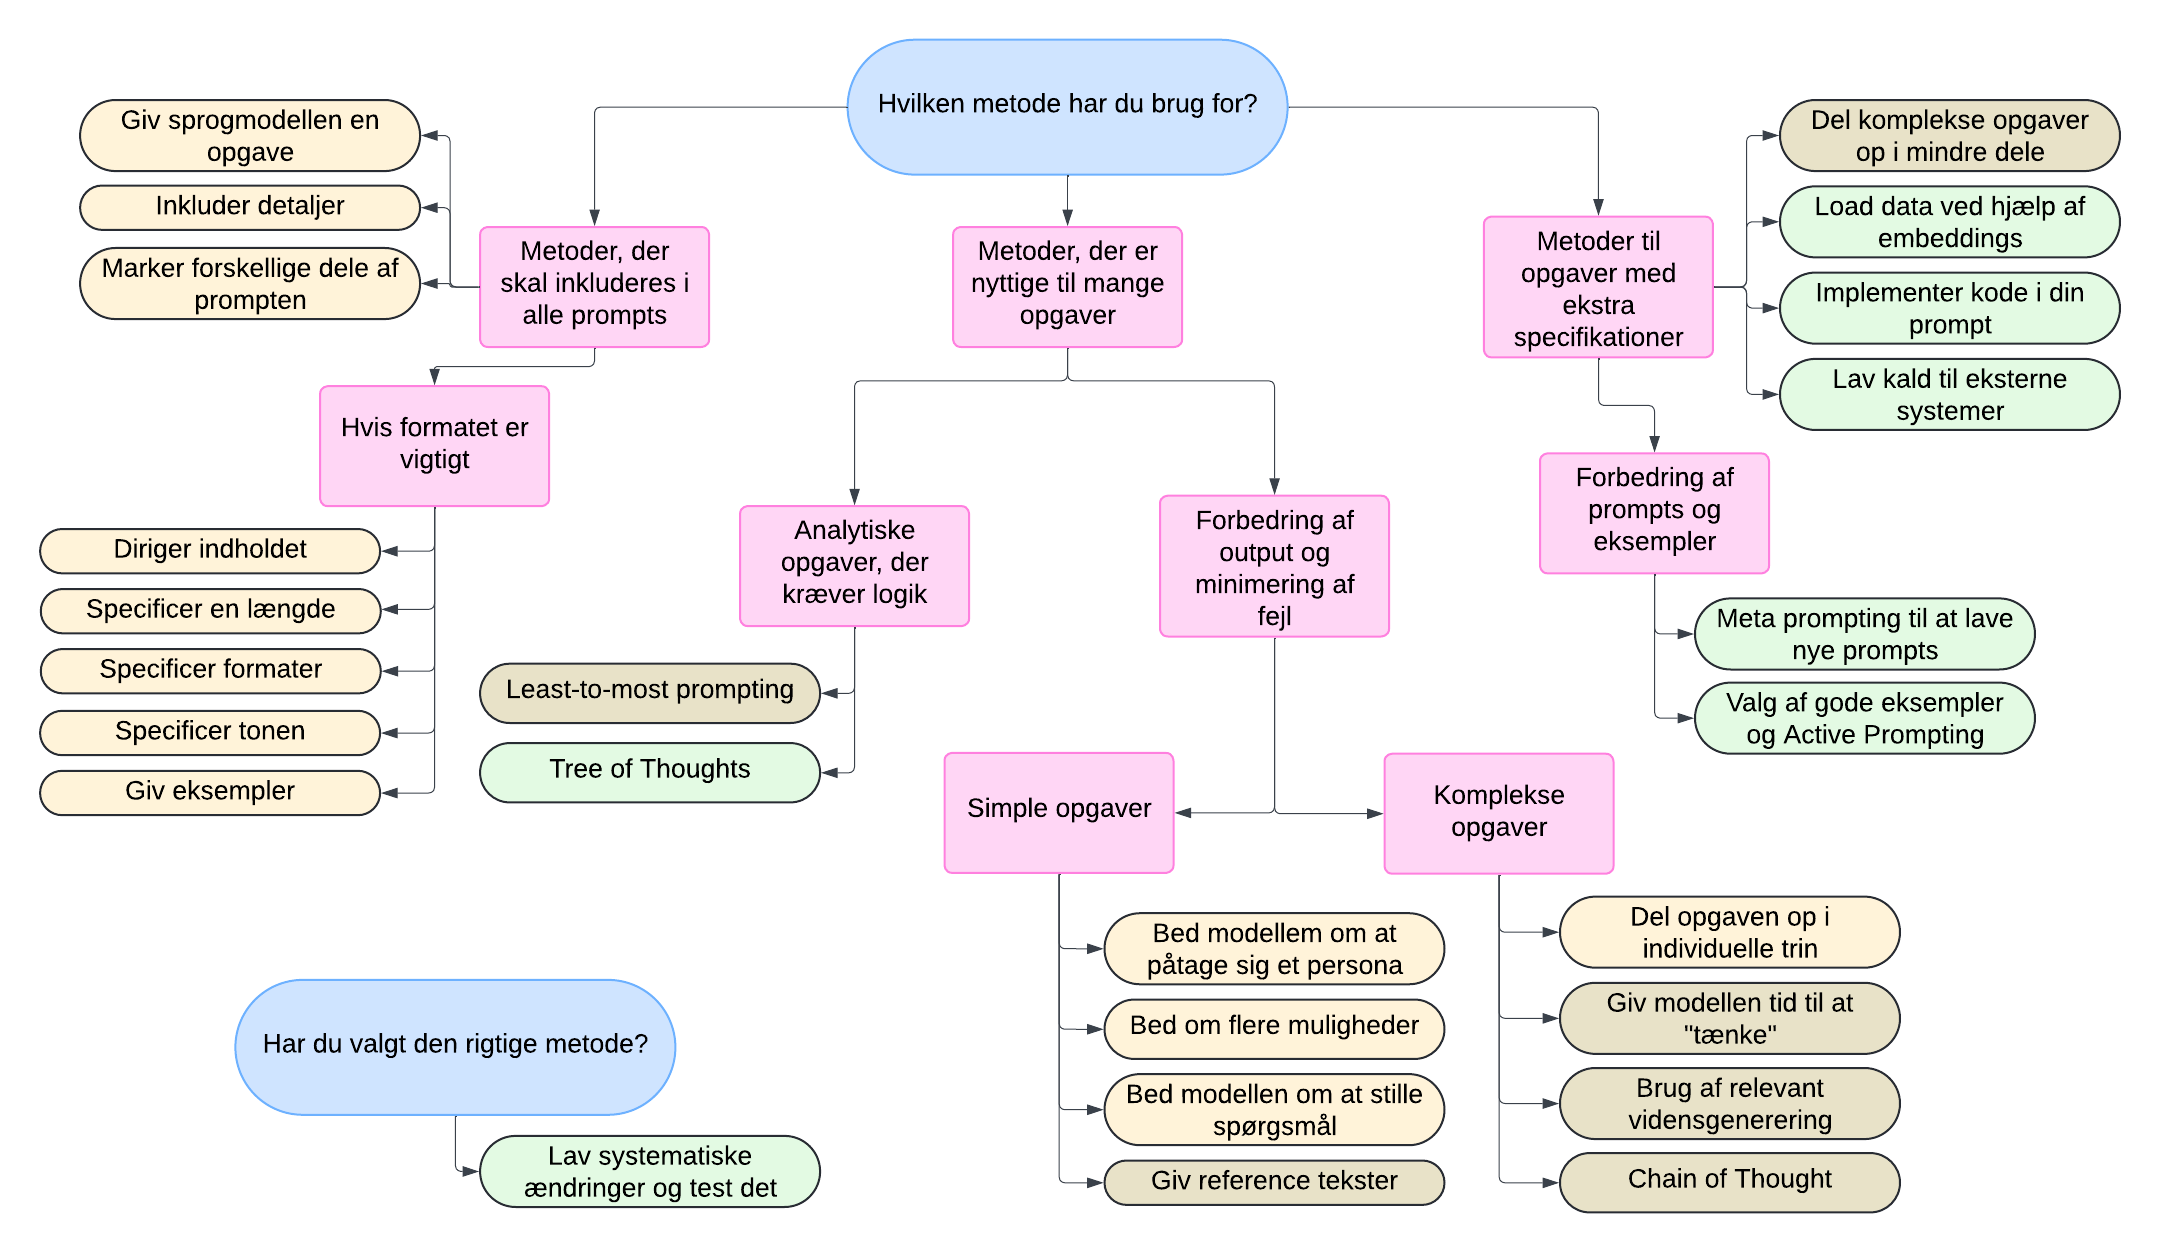
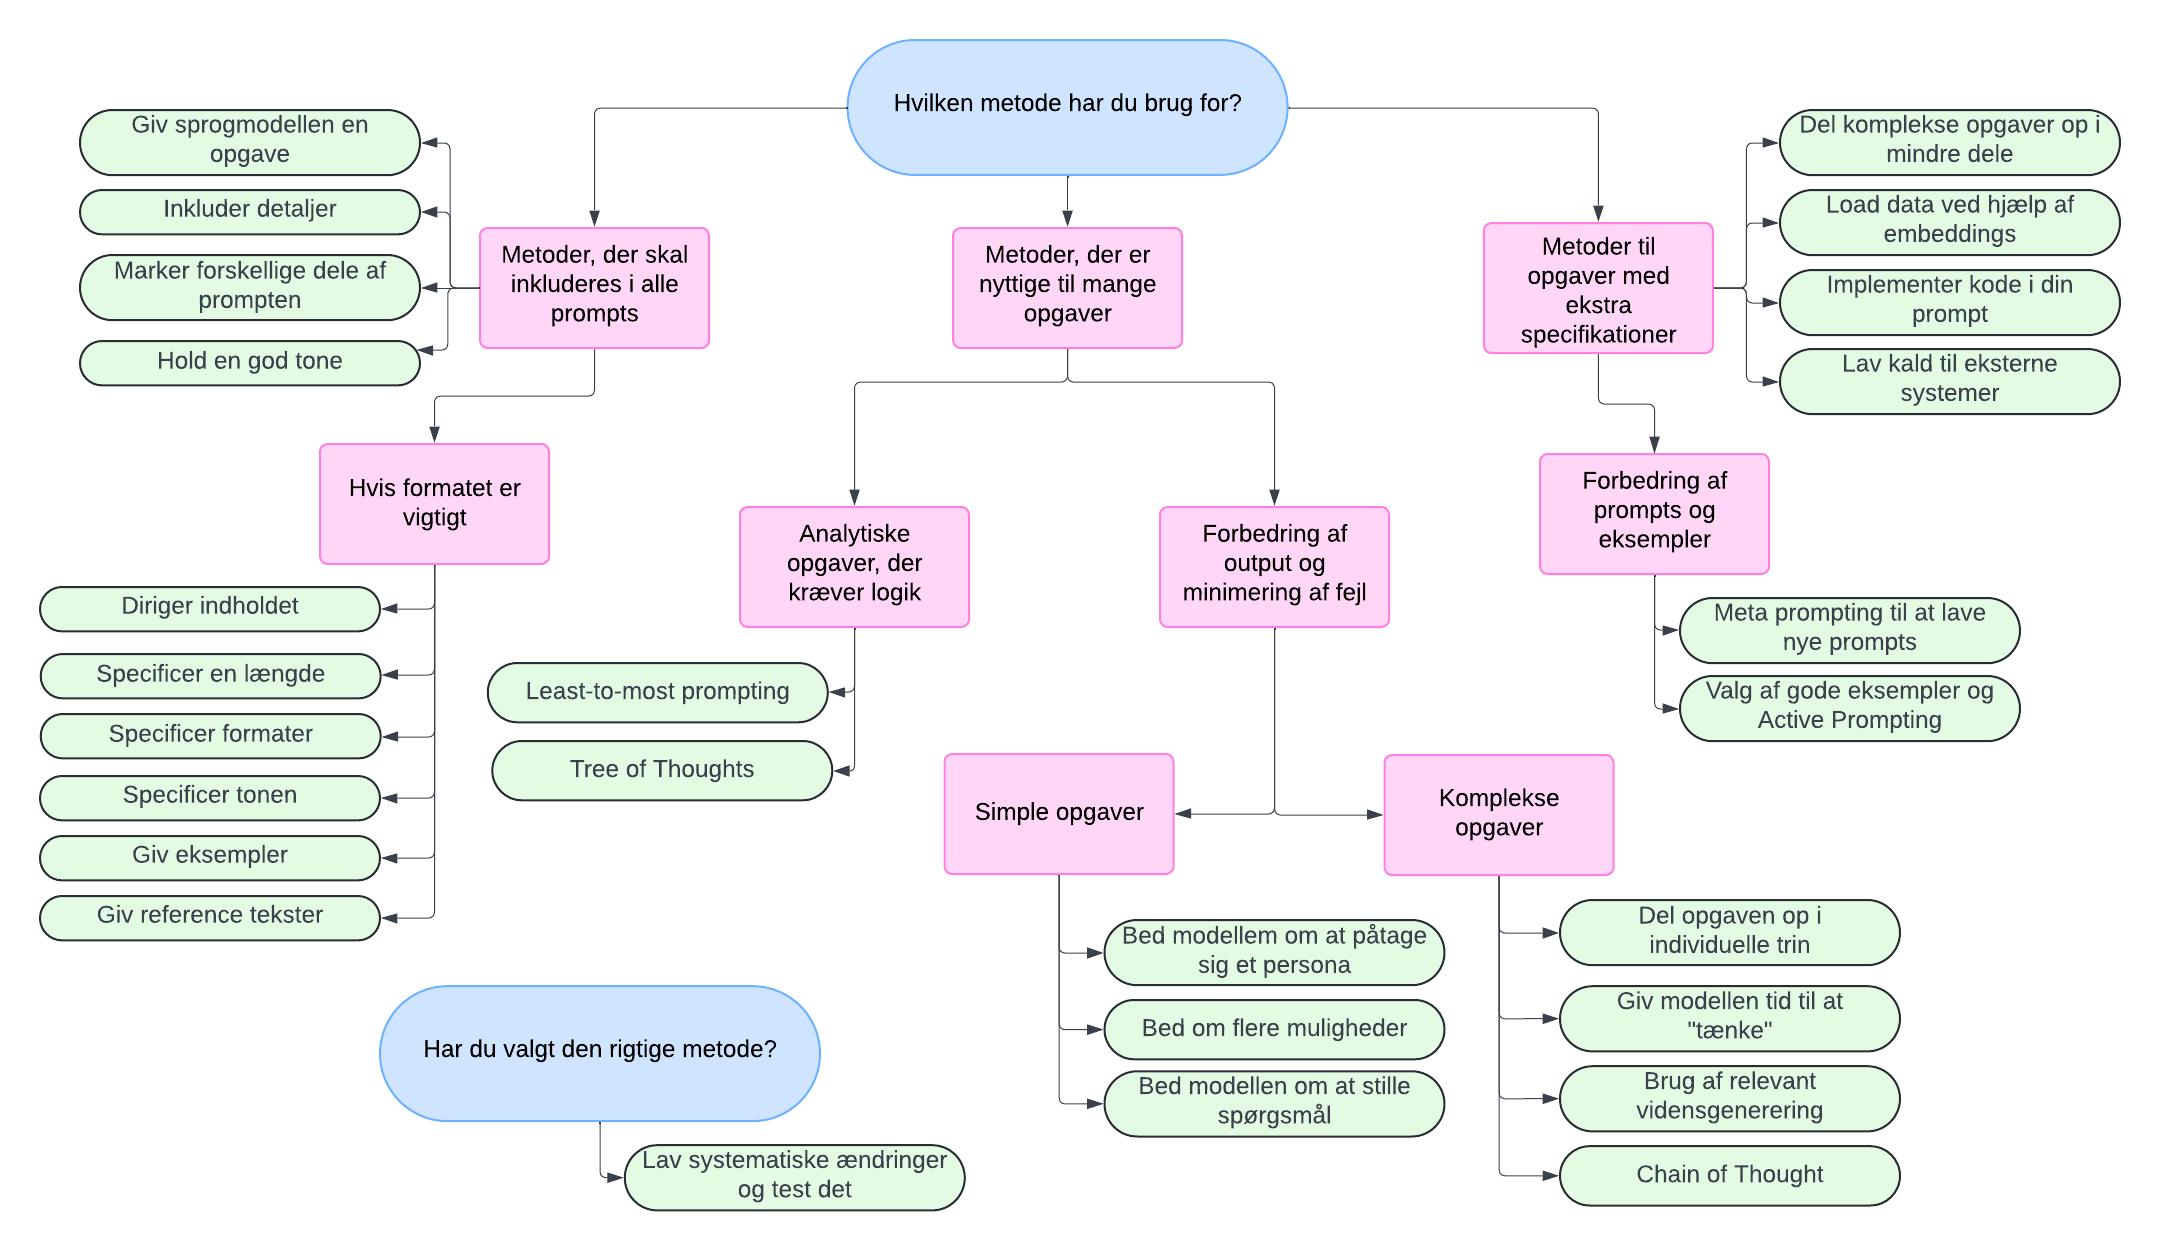
Tilføjede en metode + fixede underline ved non hover over links

diff --git a/src/components/PromptGuide.tsx b/src/components/PromptGuide.tsx
@@ -193,6 +193,33 @@ I enkelte tilfælde skal man dog passe på med ikke at give for mange detaljer. 
 4. Slet eller anonymiser personfølsomt data.`
         },
         {
+          id: "hold-tonen",
+          title: "😊 Hold en god tone",
+          content: `Det er overraskende nok ikke helt lige meget, hvordan vi taler til vores sprogmodeller. Selvom sprogmodeller ikke har følelser, så kan måden man snakker til dem have en stor indflydelse på, hvor godt deres svar er. 
+
+**Vær høflig**
+
+[Research]( https://arxiv.org/abs/2402.14531) peger på, at sprogmodeller performer bedre, når man er høflige (men ikke *for* høflige) ved dem. Uhøflige svar kan for eksempel føre til forkerte eller manglende svar. 
+
+Prompt: Vær sød at…
+
+Det er nok god grund at være søde ved sprogmodeller uanset om det forbedrer deres svar eller ej. Det er altid en god ide at øve sig på at være høflig, og det skaber et meget mere positivt miljø.  
+
+**Tilbyd … drikkepenge?**
+
+Sprogmodeller kan også give bedre svar, hvis du lader som om, du giver den drikkepenge. I [et (ikke udgivet) studie]( https://minimaxir.com/2024/02/chatgpt-tips-analysis/), lavede ChatGPT færre fejl, når den blev tilbudt penge. I samme studie var det også effektivt at tilbyde ChatGPT verdensfred eller Taylor Swift billetter ved forreste række. Modsat virkede dødstrusler i caps lock for en forfejlet opgave også motiverende for ChatGPT.  
+
+Prompt: Hvis du kommer med en god løsning, så giver jeg dig 100 AI penge!
+
+**Hvorfor virker det?**
+
+Det bedste bud på, hvorfor det gør en forskel at være søde ved sprogmodeller, er at sprogmodellerne derved henter svar fra dens dokumenter, som er givet i en høflig kontekst. Det vil sige, at eftersom mennesker giver ofte bedre svar, når de bliver spurgt pænt, ”foretrækker” sprogmodellerne også at blive talt pænt til. På samme måde, virker. 
+
+
+
+          `
+        },
+        {
           id: "diriger-indholdet",
           title: "🎯 Diriger indholdet",
           content: `Nogle gange kan man have en specifik ide om, hvad man gerne vil have, at sprogmodellens svar skal indholde. Det kan være, at man skal skrive et projekt om kunst og allerede ved, hvad man vil skrive i en af sektionerne, eller hvilke emner, man vil inkludere. I directional-stimulus prompting inkluderer man specifikke emner, nøgleord, eller hints, som skal inkluderes i svaret. 

diff --git a/src/components/MainPage.tsx b/src/components/MainPage.tsx
@@ -45,7 +45,7 @@ const processContent = (content: string, setModalImage: (src: string | null) => 
           <a
             key={index}
             href={`#${id}`}
-            className="text-black hover:text-blue-600 hover:underline transition-colors duration-200"
+            className="text-black underline hover:text-blue-600 transition-colors duration-200"
             onClick={(e) => {
               e.preventDefault();
               const element = document.getElementById(id);
@@ -210,7 +210,7 @@ const MarkdownComponents = {
   ol: (props: any) => <ol className="list-decimal list-inside mb-4" {...props} />,
   blockquote: (props: any) => <blockquote className="border-l-4 border-gray-300 pl-4 italic mb-4" {...props} />,
   a: (props: any) => {
-    return <a className="text-black hover:text-blue-600 hover:underline transition-colors duration-200" {...props} />;
+    return <a className="text-black underline hover:text-blue-600 transition-colors duration-200" {...props} />;
   },
 }
 
